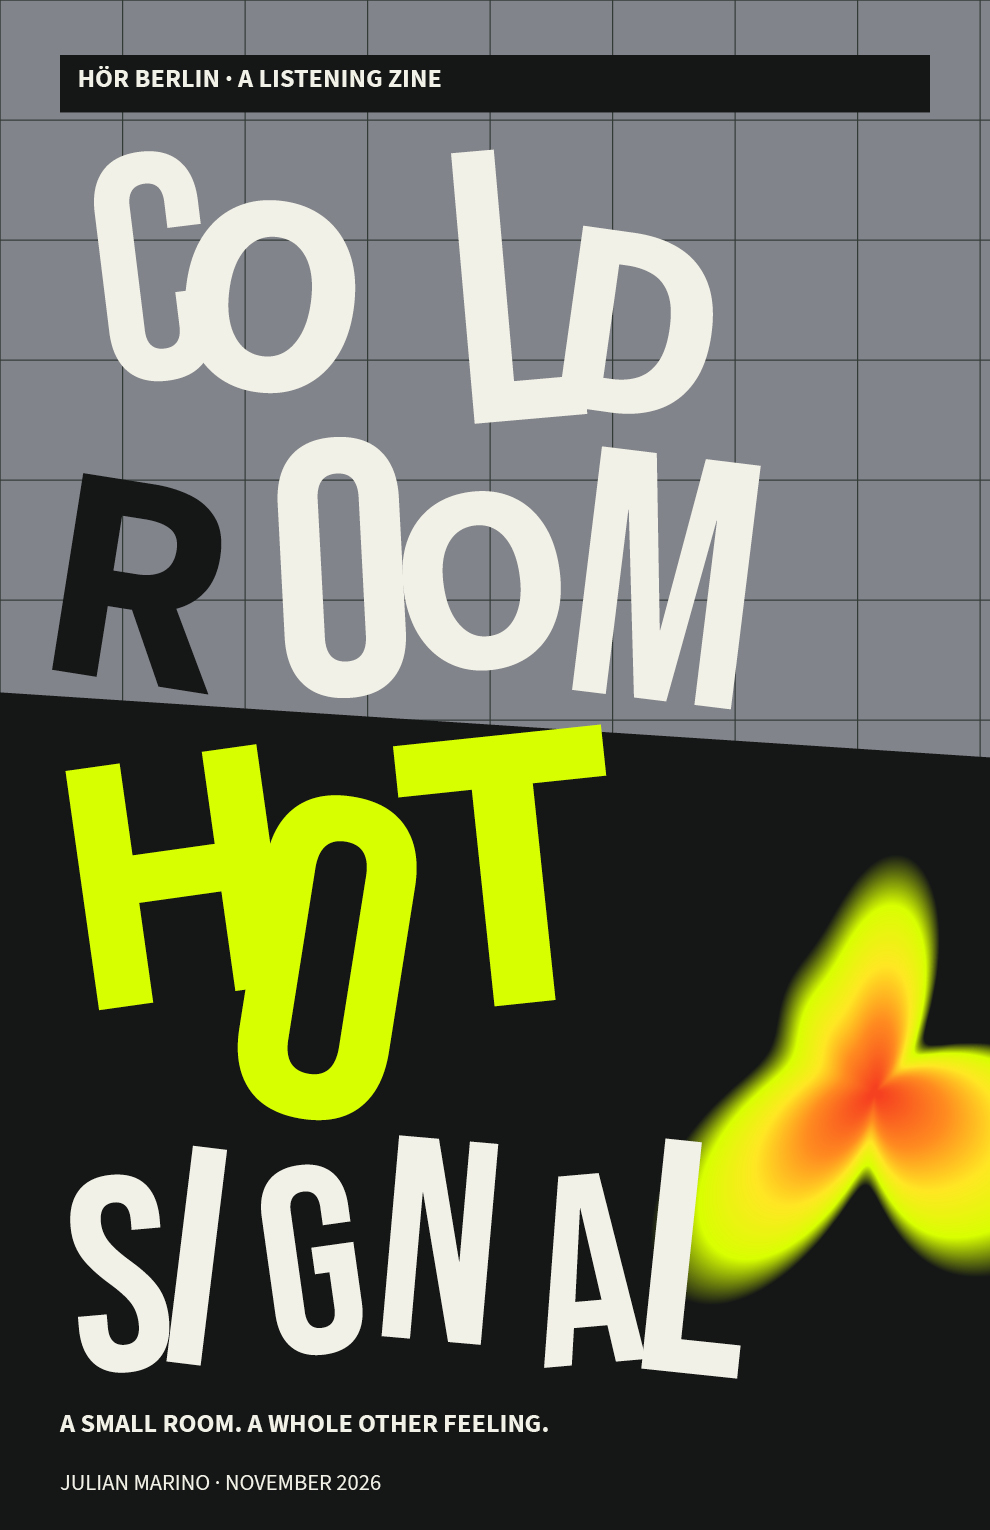
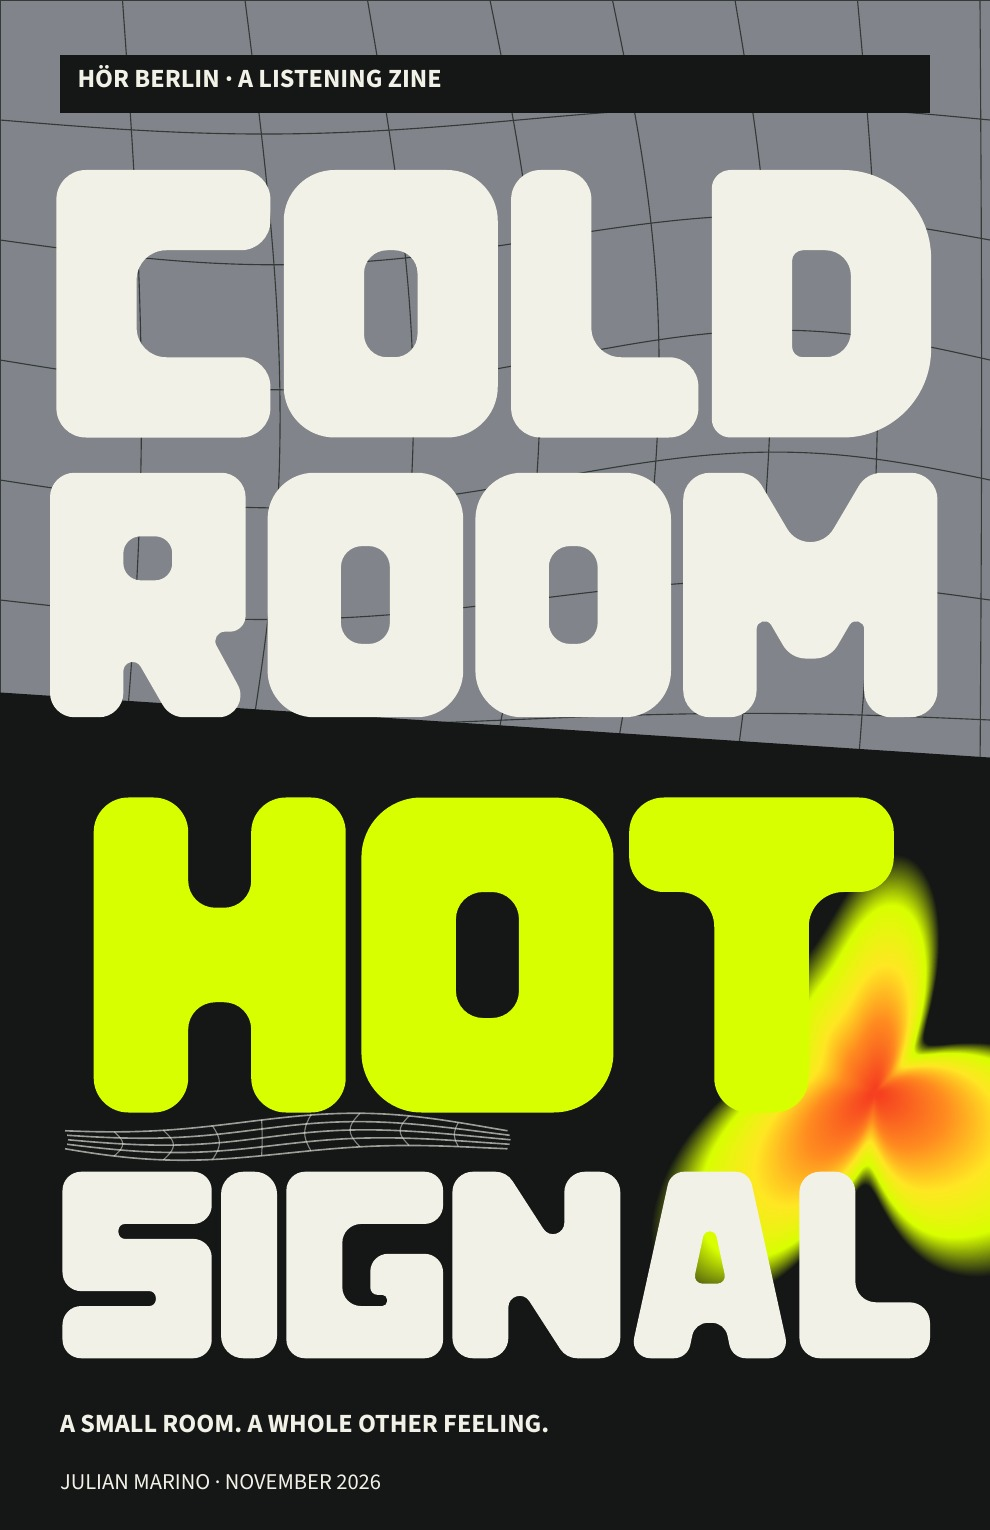
Add files via upload

diff --git a/about.html b/about.html
@@ -1,1 +1,1 @@
-<!doctype html><html lang="en"><head><meta charset="utf-8"><meta name="viewport" content="width=device-width, initial-scale=1"><meta name="description" content="Julian Marino — graphic design, typography and visual identity. Selected college projects and explorations."><title>About — Julian Marino</title><link rel="icon" href="assets/jdma-logo.svg" type="image/svg+xml"><link rel="preconnect" href="https://fonts.googleapis.com"><link rel="preconnect" href="https://fonts.gstatic.com" crossorigin><link href="https://fonts.googleapis.com/css2?family=Barlow+Condensed:wght@500;600;700&family=Space+Grotesk:wght@400;500;600;700&display=swap" rel="stylesheet"><link rel="stylesheet" href="style.css"></head><body><a class="skip" href="#main">Skip to content</a><header class="site-header"><a class="brand" href="index.html" aria-label="Julian Marino home"><img src="assets/jdma-logo.svg" width="190" height="42" alt="JDMA"></a><nav aria-label="Main navigation"><a href="index.html">Home</a><a href="work.html">Work</a><a href="about.html" aria-current="page">About</a><a href="contact.html">Contact</a></nav></header><main id="main"><section class="page-intro" id="top"><p class="eyebrow">ABOUT / JULIAN MARINO</p><h1>I LOOK.<br>I LISTEN.<br><span>I MAKE.</span></h1></section><section class="about-grid"><div class="portrait-space" aria-hidden="true"></div><div class="about-copy"><span class="eyebrow">DESIGN MEETS SOUND</span><h2>I find ideas<br>in what I love.</h2><p>I’m a graphic design student at George Brown and a DJ. I’m interested in typography, visual identity and the ways that music and street culture shape design.</p><p>I love hard techno and listening to full sets. Paying attention to rhythm, mood and transitions also makes me think about how a visual sequence feels.</p><p>I like making work with a strong personality. I often start with bold type and colour, then keep adjusting it until the idea feels clear.</p><a class="text-link" href="work.html">See what I’m exploring ↗</a></div></section><section class="interests"><h2>WHAT I RETURN TO</h2><div><span>01</span><h3>Typography</h3><p>How a word looks can change how it feels.</p></div><div><span>02</span><h3>Identity</h3><p>Finding a simple shape that feels right.</p></div><div><span>03</span><h3>Music</h3><p>The energy of a track and the people around it.</p></div></section></main><footer class="site-footer"><span>JULIAN MARINO / JDMA</span><span>DESIGN × SOUND × CULTURE</span><a href="#top">Back to top ↑</a></footer></body></html>
+<!doctype html><html lang="en"><head><meta charset="utf-8"><meta name="viewport" content="width=device-width, initial-scale=1"><meta name="description" content="Julian Marino — graphic design, typography and visual identity. Selected college projects and explorations."><title>About — Julian Marino</title><link rel="icon" href="assets/jdma-logo.svg" type="image/svg+xml"><link rel="preconnect" href="https://fonts.googleapis.com"><link rel="preconnect" href="https://fonts.gstatic.com" crossorigin><link href="https://fonts.googleapis.com/css2?family=Barlow+Condensed:wght@500;600;700&family=Space+Grotesk:wght@400;500;600;700&display=swap" rel="stylesheet"><link rel="stylesheet" href="style.css"></head><body><a class="skip" href="#main">Skip to content</a><header class="site-header"><a class="brand" href="index.html" aria-label="Julian Marino home"><img src="assets/jdma-logo.svg" width="190" height="42" alt="JDMA"></a><nav aria-label="Main navigation"><a href="index.html">Home</a><a href="work.html">Work</a><a href="about.html" aria-current="page">About</a><a href="contact.html">Contact</a></nav></header><main id="main"><section class="page-intro" id="top"><p class="eyebrow">ABOUT / JULIAN MARINO</p><h1>I LOOK.<br>I LISTEN.<br><span>I MAKE.</span></h1></section><section class="about-grid"><div class="portrait-space"><img src="assets/jdma-art.png" width="1122" height="1402" alt="JDMA lettering with a lime ribbon and layered print textures"></div><div class="about-copy"><span class="eyebrow">DESIGN MEETS SOUND</span><h2>I find ideas<br>in what I love.</h2><p>I’m a graphic design student at George Brown and a DJ. I’m interested in typography, visual identity and the ways that music and street culture shape design.</p><p>I love hard techno and listening to full sets. Paying attention to rhythm, mood and transitions also makes me think about how a visual sequence feels.</p><p>I like making work with a strong personality. I often start with bold type and colour, then keep adjusting it until the idea feels clear.</p><a class="text-link" href="work.html">See what I’m exploring ↗</a></div></section><section class="interests"><h2>WHAT I RETURN TO</h2><div><span>01</span><h3>Typography</h3><p>How a word looks can change how it feels.</p></div><div><span>02</span><h3>Identity</h3><p>Finding a simple shape that feels right.</p></div><div><span>03</span><h3>Music</h3><p>The energy of a track and the people around it.</p></div></section></main><footer class="site-footer"><span>JULIAN MARINO / JDMA</span><span>DESIGN × SOUND × CULTURE</span><a href="#top">Back to top ↑</a></footer></body></html>

diff --git a/contact.html b/contact.html
@@ -1,1 +1,1 @@
-<!doctype html><html lang="en"><head><meta charset="utf-8"><meta name="viewport" content="width=device-width, initial-scale=1"><meta name="description" content="Julian Marino — graphic design, typography and visual identity. Selected college projects and explorations."><title>Contact — Julian Marino</title><link rel="icon" href="assets/jdma-logo.svg" type="image/svg+xml"><link rel="preconnect" href="https://fonts.googleapis.com"><link rel="preconnect" href="https://fonts.gstatic.com" crossorigin><link href="https://fonts.googleapis.com/css2?family=Barlow+Condensed:wght@500;600;700&family=Space+Grotesk:wght@400;500;600;700&display=swap" rel="stylesheet"><link rel="stylesheet" href="style.css"></head><body><a class="skip" href="#main">Skip to content</a><header class="site-header"><a class="brand" href="index.html" aria-label="Julian Marino home"><img src="assets/jdma-logo.svg" width="190" height="42" alt="JDMA"></a><nav aria-label="Main navigation"><a href="index.html">Home</a><a href="work.html">Work</a><a href="about.html">About</a><a href="contact.html" aria-current="page">Contact</a></nav></header><main id="main"><section class="contact-hero" id="top"><p class="eyebrow">CONTACT / JULIAN MARINO</p><h1>LET’S MAKE<br><span>A CONNECTION.</span></h1><p class="intro-copy">Design, music or an idea worth exploring.</p><div class="contact-details"><div><h2>EMAIL</h2><div class="empty-detail" aria-hidden="true"></div></div><div><h2>SOCIAL</h2><div class="empty-detail" aria-hidden="true"></div></div></div><a class="button outline" href="work.html">Back to the work ↗</a></section></main><footer class="site-footer"><span>JULIAN MARINO / JDMA</span><span>DESIGN × SOUND × CULTURE</span><a href="#top">Back to top ↑</a></footer></body></html>
+<!doctype html><html lang="en"><head><meta charset="utf-8"><meta name="viewport" content="width=device-width, initial-scale=1"><meta name="description" content="Julian Marino — graphic design, typography and visual identity. Selected college projects and explorations."><title>Contact — Julian Marino</title><link rel="icon" href="assets/jdma-logo.svg" type="image/svg+xml"><link rel="preconnect" href="https://fonts.googleapis.com"><link rel="preconnect" href="https://fonts.gstatic.com" crossorigin><link href="https://fonts.googleapis.com/css2?family=Barlow+Condensed:wght@500;600;700&family=Space+Grotesk:wght@400;500;600;700&display=swap" rel="stylesheet"><link rel="stylesheet" href="style.css"></head><body><a class="skip" href="#main">Skip to content</a><header class="site-header"><a class="brand" href="index.html" aria-label="Julian Marino home"><img src="assets/jdma-logo.svg" width="190" height="42" alt="JDMA"></a><nav aria-label="Main navigation"><a href="index.html">Home</a><a href="work.html">Work</a><a href="about.html">About</a><a href="contact.html" aria-current="page">Contact</a></nav></header><main id="main"><section class="contact-hero" id="top"><p class="eyebrow">CONTACT / JULIAN MARINO</p><h1>LET’S MAKE<br><span>A CONNECTION.</span></h1><p class="intro-copy">Design, music or an idea worth exploring.</p><div class="contact-details"><div><h2>EMAIL</h2><a class="contact-link" href="mailto:julianmarino2312@gmail.com">julianmarino2312@gmail.com ↗</a></div><div><h2>GITHUB</h2><a class="contact-link" href="https://github.com/julianmarino2312-tech">julianmarino2312-tech ↗</a></div></div><a class="button outline" href="work.html">Back to the work ↗</a></section></main><footer class="site-footer"><span>JULIAN MARINO / JDMA</span><span>DESIGN × SOUND × CULTURE</span><a href="#top">Back to top ↑</a></footer></body></html>

diff --git a/style.css b/style.css
@@ -3,3 +3,5 @@
 @media(max-width:1000px){.hero h1{font-size:12vw}.project-image{height:350px;padding:22px}.case-study{gap:30px;grid-template-columns:1fr 1.2fr}.case-copy h2{font-size:46px}.case-image{min-height:300px;padding:18px}.about-copy h2{font-size:48px}.about-grid{gap:6%}.project-index{gap:24px;flex-wrap:wrap}}
 @media(max-width:600px){.site-header{padding:20px 22px;gap:18px;flex-wrap:wrap}.brand{width:126px}.site-header nav{gap:22px;justify-content:space-between;width:100%}.site-header nav a{font-size:13px}.hero{padding:34px 22px 42px}.hero .eyebrow{display:block;font-size:12px}.hero .eyebrow span{display:block;margin-bottom:5px}.hero h1{font-size:17.5vw;margin:38px 0 28px;line-height:.95}.hero-bottom{display:block}.hero-bottom p{font-size:15px;max-width:350px}.hero-bottom .button{margin-top:28px;width:100%}.orbit{font-size:230px;right:-90px;top:75px}.ticker{font-size:24px;padding:8px 0}.section{padding:45px 22px}.section-heading{align-items:start;flex-direction:column;gap:9px}.section-heading h2{font-size:34px}.project-grid{grid-template-columns:1fr;gap:35px}.project-image{height:390px;padding:24px}.project-caption h3{font-size:22px}.closing{padding:45px 22px 55px}.closing h2{font-size:56px}.site-footer{padding:28px 22px;flex-direction:column;gap:12px}.page-intro,.contact-hero{padding:42px 22px}.page-intro h1,.contact-hero h1{font-size:17vw}.intro-copy{font-size:16px}.project-index{margin:0 22px;display:grid;grid-template-columns:1fr 1fr;gap:15px;font-size:12px}.case-study{display:flex;flex-direction:column;align-items:stretch;padding:45px 22px;gap:28px}.case-copy h2{font-size:47px}.case-copy p{font-size:15px}.case-image{min-height:250px}.about-grid{grid-template-columns:1fr;padding:0 22px 50px;gap:38px}.portrait-space{max-height:450px;width:100%;aspect-ratio:4/5}.about-copy h2{font-size:48px}.interests{padding:45px 22px}.interests>h2{font-size:34px}.interests>div{grid-template-columns:30px 1fr;gap:12px}.interests p{grid-column:2}.interests h3{font-size:25px}.contact-details{grid-template-columns:1fr;gap:32px;margin:40px 0}.contact-hero .button{width:100%}}
 @media(prefers-reduced-motion:reduce){html{scroll-behavior:auto}*{transition:none!important}}
+
+.portrait-space{overflow:hidden}.portrait-space img{width:100%;height:100%;object-fit:cover}.contact-link{display:block;padding:18px 0;border-bottom:1px solid var(--line);font-size:clamp(15px,1.5vw,21px);overflow-wrap:anywhere}.contact-link:hover{color:var(--acid)}
